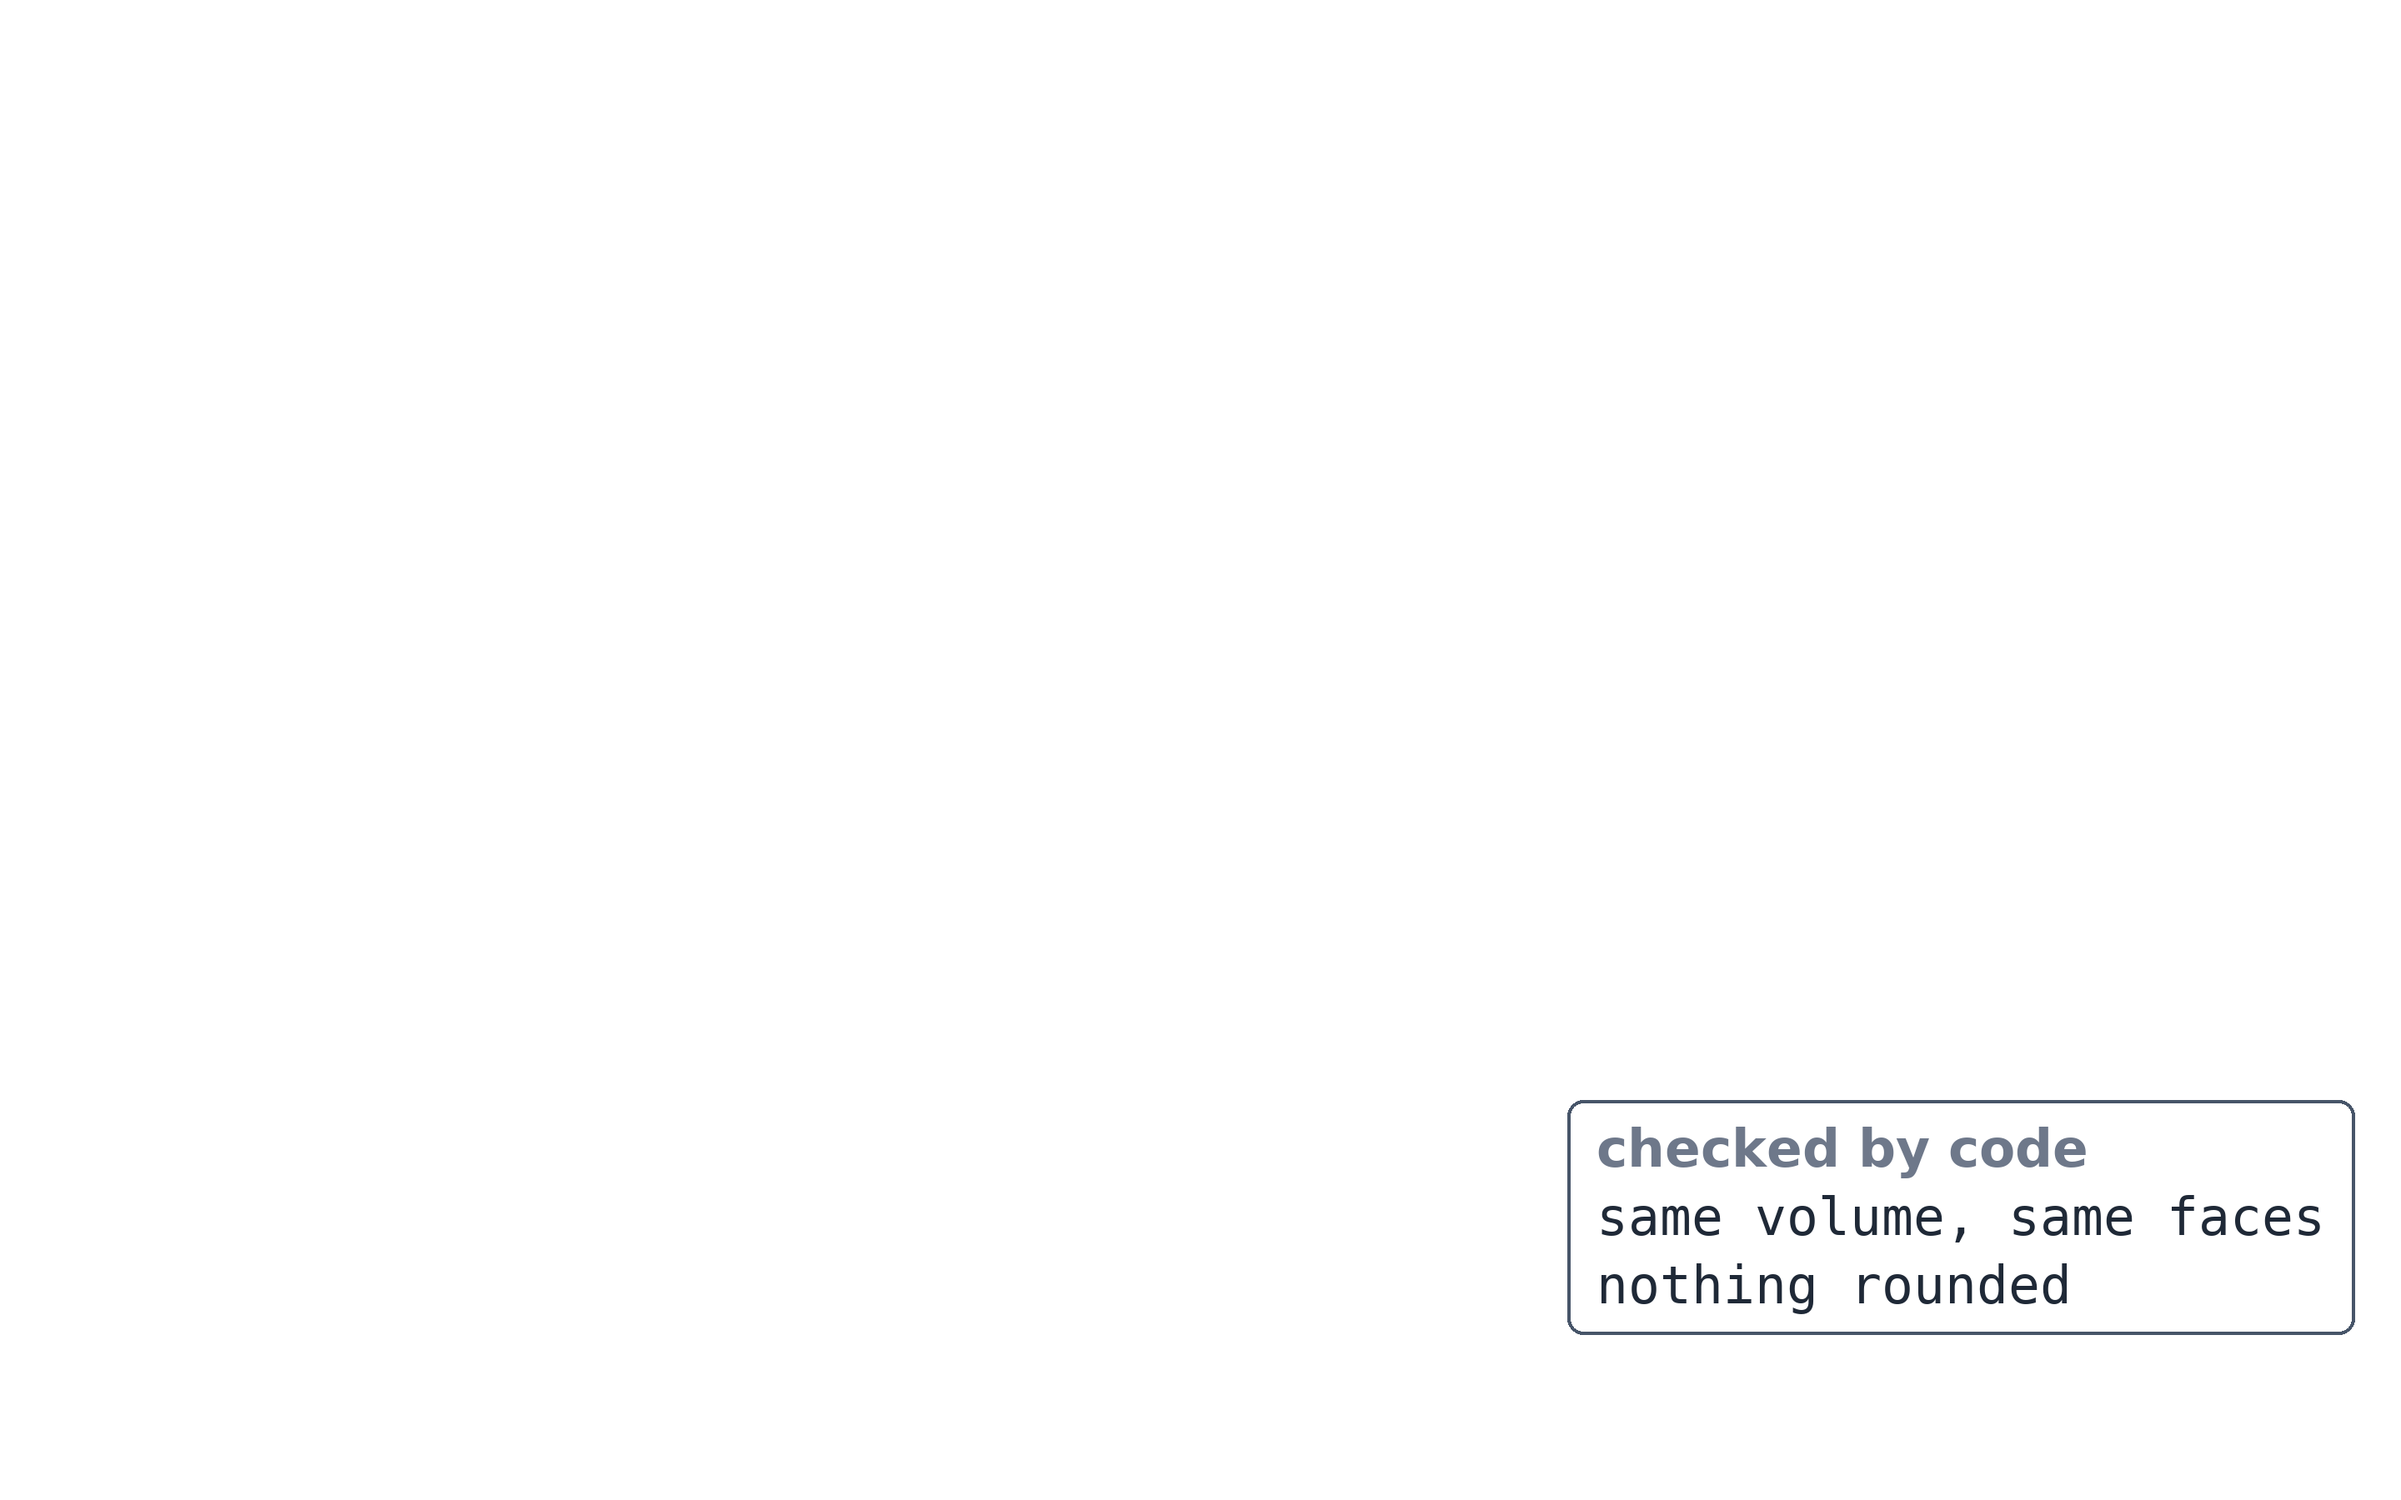
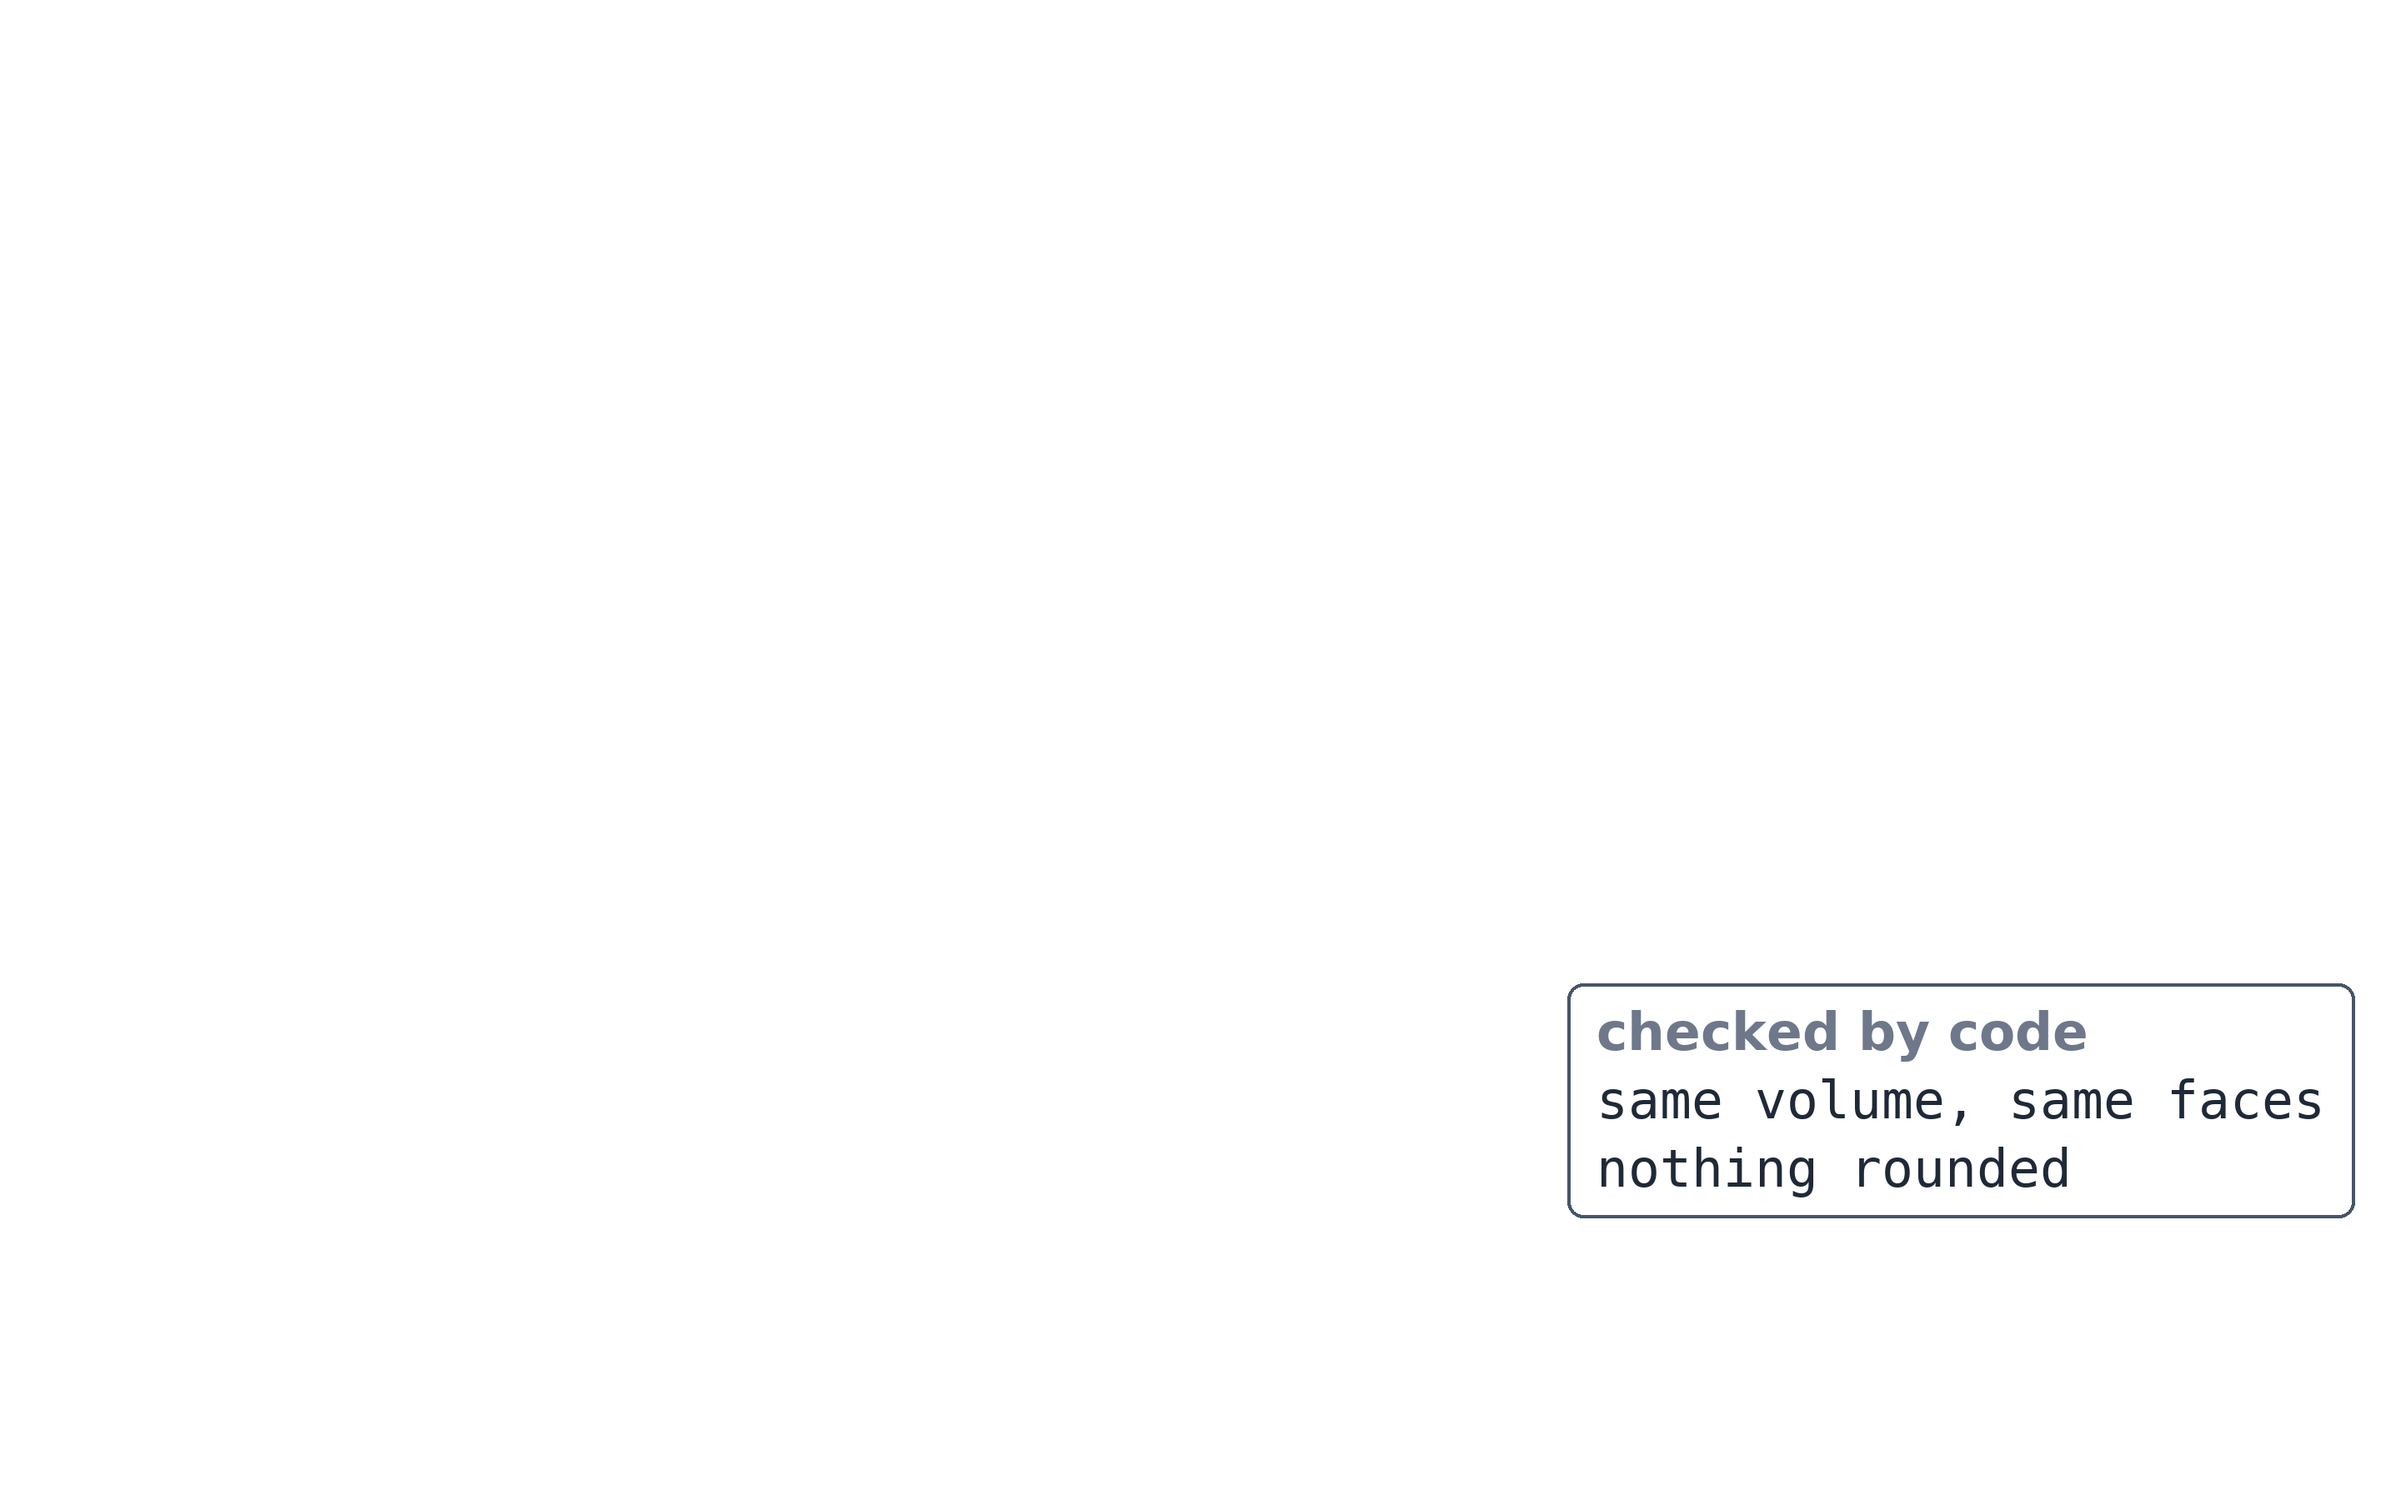
fc15 cut 3: T5 code panel clear of Ti's lower label (watch-through cut 2)

Changed region(s): [[0.6562, 0.6533, 0.9688, 0.8711]]

diff --git a/video/draw_fc15.py b/video/draw_fc15.py
@@ -520,7 +520,7 @@ SUB = [['Lesson 16: the hanging hole, typed 2 deep,', 'closes to a 1 mm skin at 
 
 def panels():
     t = NUM['takes']
-    code_panel('ov-in-T5.png', ['same volume, same faces', 'nothing rounded'], (1880, 1320))         # F5 (T 76.8+)
+    code_panel('ov-in-T5.png', ['same volume, same faces', 'nothing rounded'], (1880, 1180))         # F5 (T 76.8+); cut 3: clear of Ti's label
     code_panel('ov-in-F7.png', [f'round {f2(FIXR)}', f"leftover flat {f2(FIX['flat'])}",
                                 f"inside {n0(FIX['inside_w'])} × {n0(FIX['inside_l'])}"], (520, 1150))  # F7 (F 127.6+)
     code_panel('ov-in-P10.png', [f"on screen: wall-3 shape, {n0(W3['outside_w'])} wide",

diff --git a/tests/test_draw_fc15.py b/tests/test_draw_fc15.py
@@ -216,3 +216,10 @@ def test_cards_build_one_idea_per_step(monkeypatch):
     assert 'same 2' in r4 and '3 > 2' in r4
     c1 = _said(d.card_coin, 1, monkeypatch)
     assert c1.count('COIN') == 1 and any('both edges' in s for s in c1)
+
+
+def test_t5_panel_clear_of_the_label(run):
+    """fc15 cut 2 watch-through: in Ti (T 79-84.4, FIT, 0.8 scale) the lower label 'by code = ...' starts at about
+    source y 1556 and hid the panel's last line 'nothing rounded'; the panel must end above 1500."""
+    box = Image.open(os.path.join(d.OUT, 'ov-in-T5.png')).getchannel('A').getbbox()
+    assert box[3] <= 1500, box
